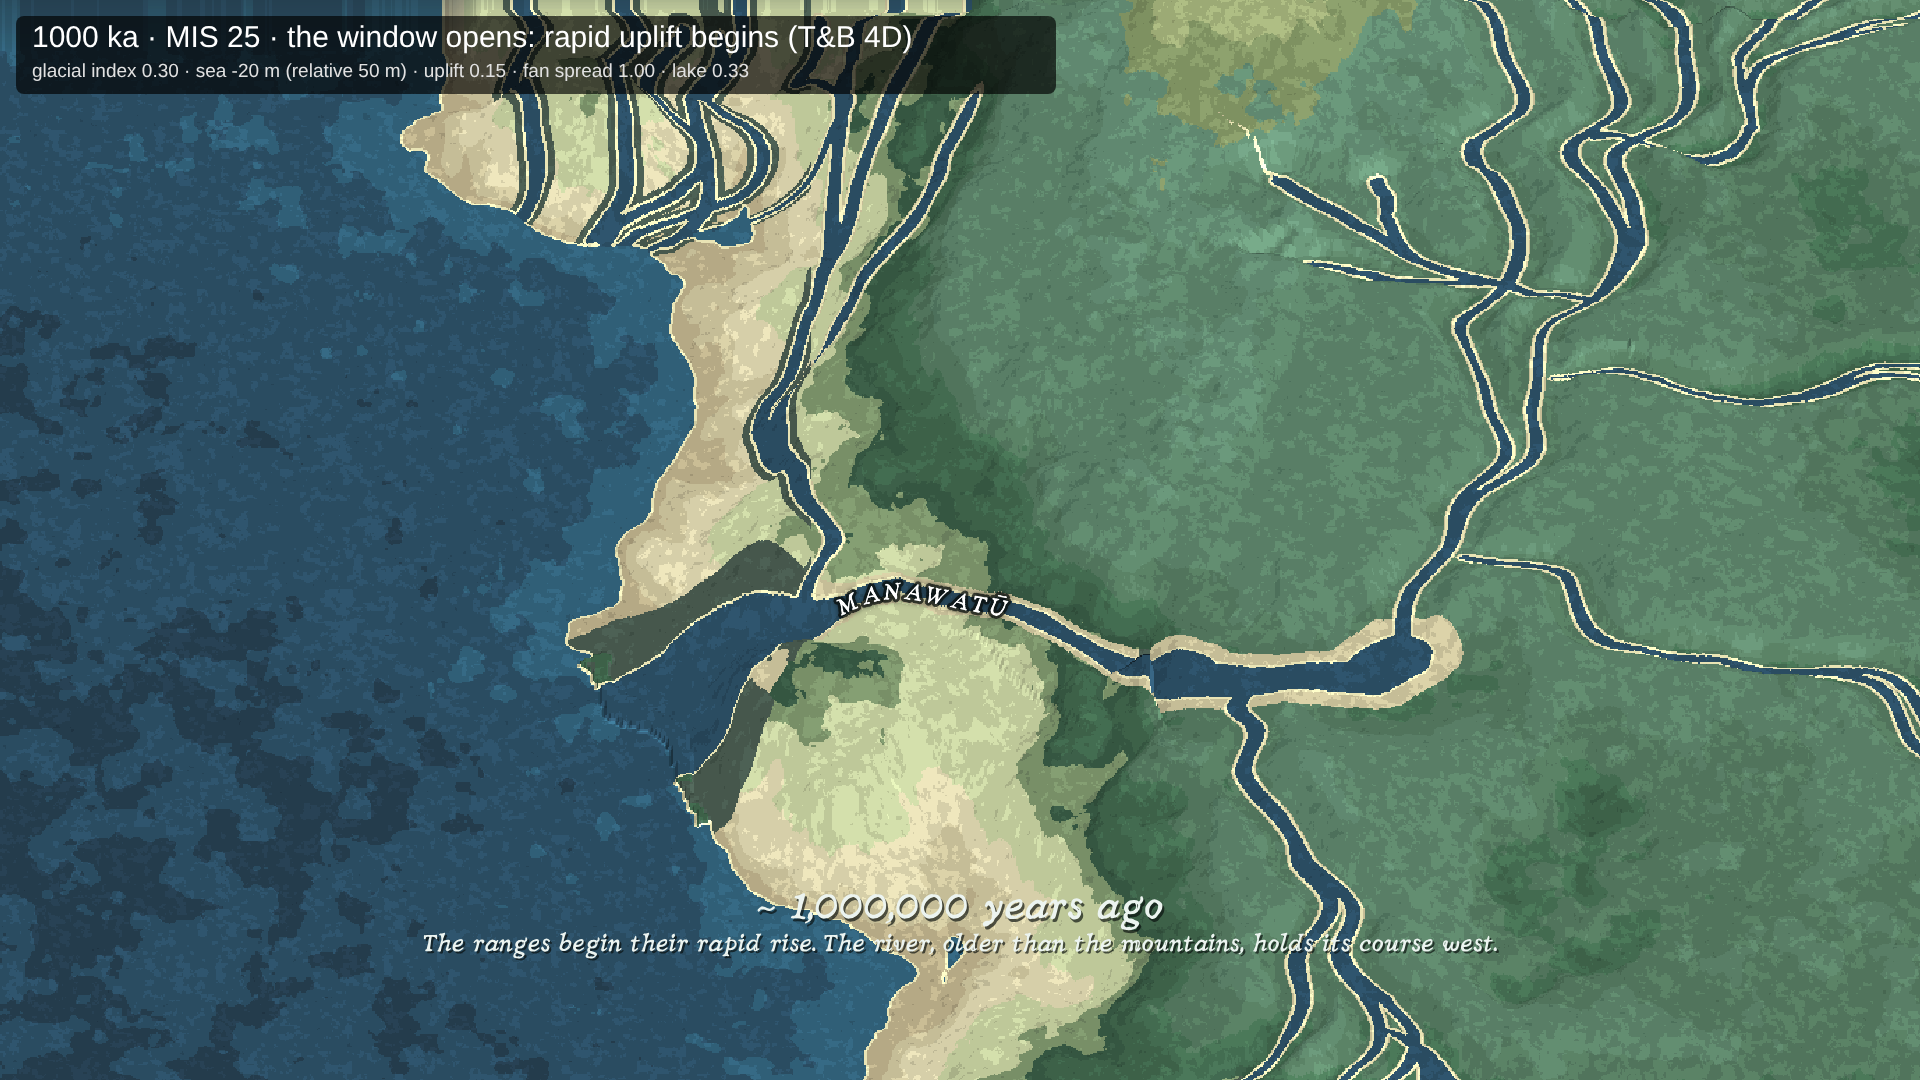
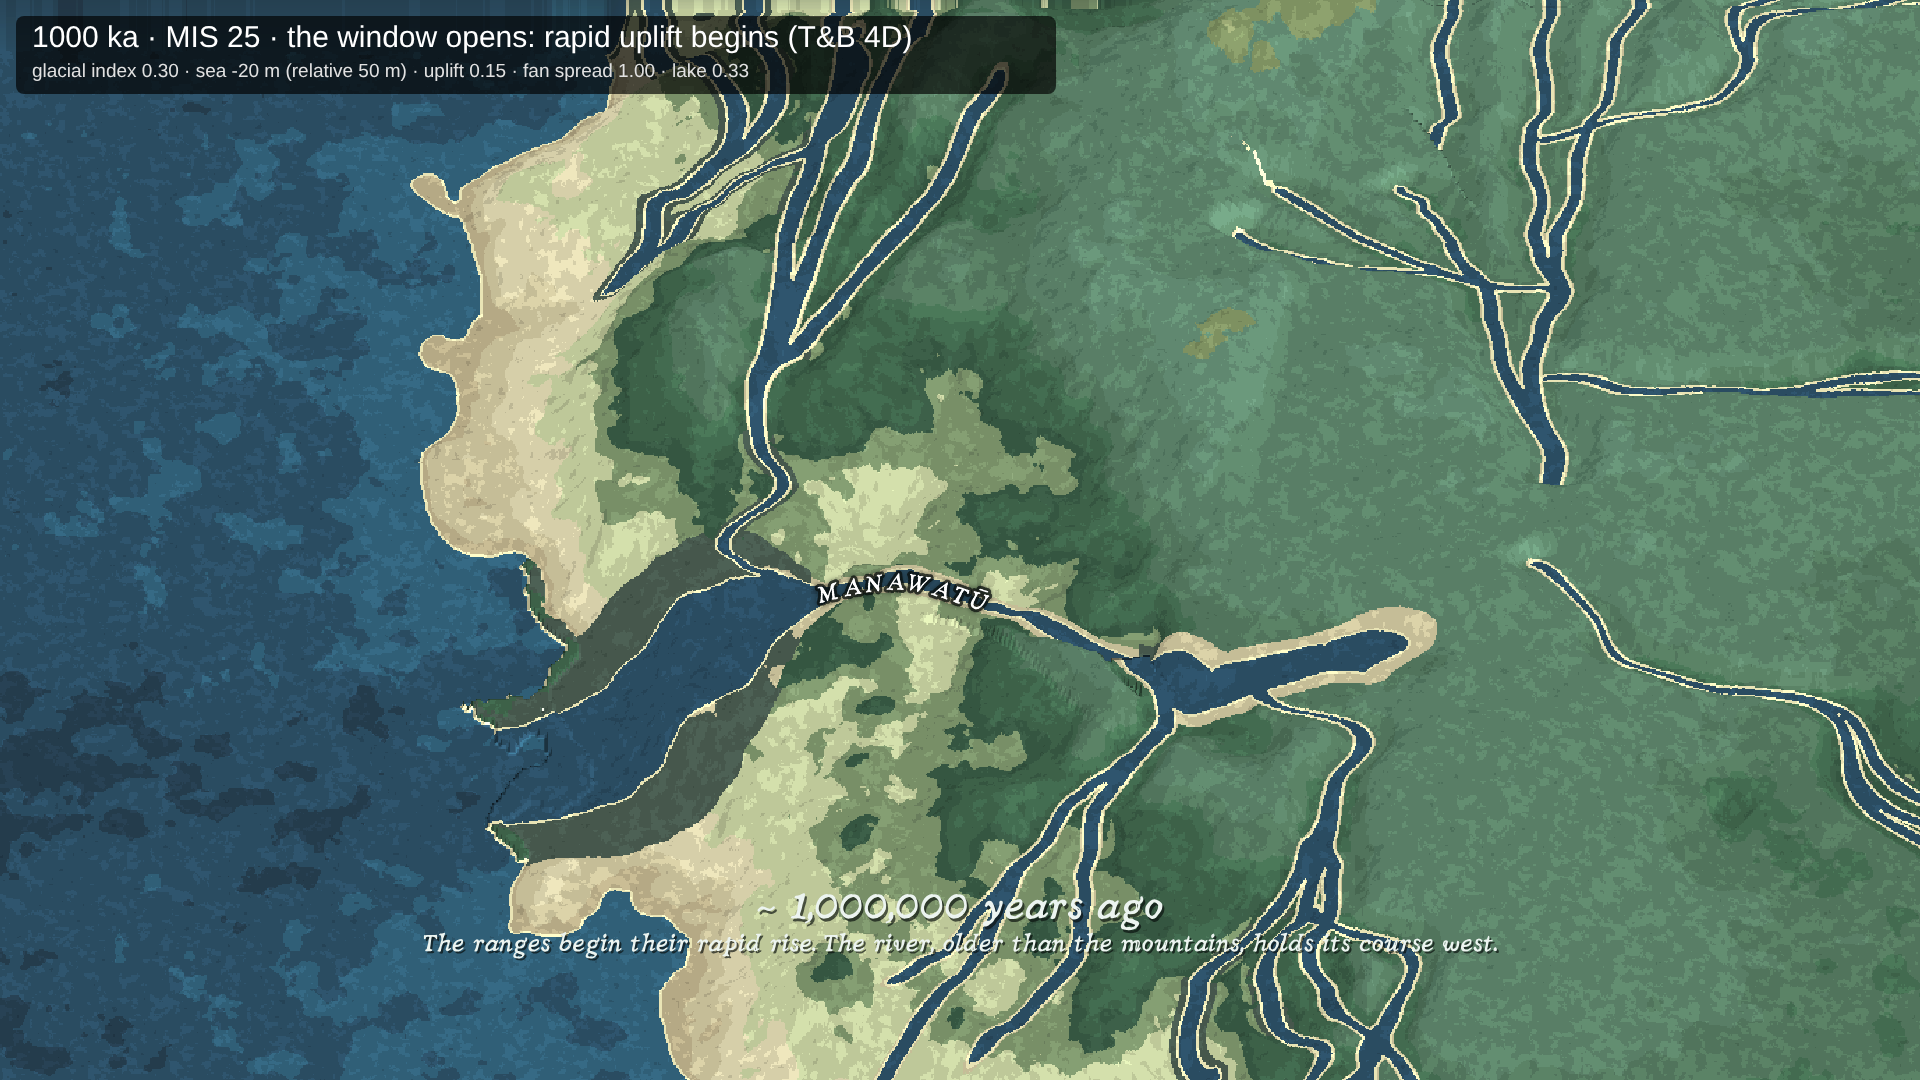
Attract sequence: no river or estuary across the finger before the drainage develops
Before the window, two systems kept riding the authored river line: the
river channel itself (carve, classify, paint) and the drowned-valley estuary
with its infill (the Opiki cycle). The estuary ran at full strength — the
relative sea level holds the opening's +50 m and the clamped climate reads
as a 40-kyr stillstand — so it drowned a wide valley along the main stem
inside the 4 Ma finger and filled it to swamp and swamp-forest: a riverbank
in the seaway between the proto-ranges.

A dated drainage term (GEO_EPOCHS.palaeoRiver, 0 at ≥ 1.6 Ma → 1 at 1.25 Ma;
Trewick & Bland p. 166: the Manawatū system develops north of the Mount Bruce
divide from ~1.5 Ma) now scales the main mask, the tributary masks and the
estuary strength at all three sites (carve, classify, paint), so they cannot
disagree. It is exactly 1 inside the window (PALAEO_NONE.river), so the sim's
land is unchanged. The channel appears as a sandy bed, then a water thread.

Harness: no river px and no filled estuary at 4, 3 and 2.4 Ma; a river at
1.3 Ma; the term is 1 inside the window. Stills re-exported. Plan doc §2, §5.

Claude-Session: https://claude.ai/code/session_01WkpDZJWCGYVheE62ZLNfrb

diff --git a/TeManawa_terrain.js b/TeManawa_terrain.js
@@ -1409,6 +1409,10 @@ class TerrainGenerator {
       //   the axis before the rapid uplift: "an emergent finger of basement rocks, albeit at low
       //   elevation" (4 Ma); "some uplift… initiated by 1.5 Ma"; joins upliftStart at upliftFrom
       palaeoUpliftPre:  [[4000000, 0.03], [1500000, 0.07]],
+      //   the DRAINAGE: the Manawatū river system develops north of the Mount Bruce divide from ~1.5 Ma
+      //   (T&B p. 166). Before that the finger is low basement land with no defined river; the channels
+      //   (main + tributaries) and the drowned-valley estuary that backs up them fade in with this
+      palaeoRiver: [[1600000, 0], [1250000, 1]],
       //   how NARROW the finger is: 1 = a strip along the crest lines (T&B Fig. 4A's thin fingers of
       //   exposed basement), 0 = the whole footprint (the ranges' own shape, as the uplift starts)
       palaeoFingerNarrow: [[4000000, 1], [3000000, 1], [1650000, 0]],
@@ -1457,7 +1461,8 @@ class TerrainGenerator {
       basinW: 1 - TerrainGenerator._anchorCurve([[E.palaeoBasinWFrom, 0], [E.palaeoBasinWTo, 1]], yearsBP),
       basinE: 1 - TerrainGenerator._anchorCurve([[E.palaeoBasinEFrom, 0], [E.palaeoBasinETo, 1]], yearsBP),
       axis:   TerrainGenerator._anchorCurve(E.palaeoAxisStrait, yearsBP),
-      narrow: TerrainGenerator._anchorCurve(E.palaeoFingerNarrow, yearsBP)
+      narrow: TerrainGenerator._anchorCurve(E.palaeoFingerNarrow, yearsBP),
+      river:  TerrainGenerator._anchorCurve(E.palaeoRiver, yearsBP)
     } : TerrainGenerator.PALAEO_NONE;
     // The axis before the rapid uplift: the dated pre-window anchors, joining upliftStart at upliftFrom.
     const upliftPre = preWindow
@@ -1521,7 +1526,7 @@ class TerrainGenerator {
   // The pre-window terms inside the window: one frozen zero object, shared (geoTimeFactors runs per
   // morph; nothing should allocate for a state that never changes).
   static get PALAEO_NONE() {
-    if (!TerrainGenerator._palaeoNone) TerrainGenerator._palaeoNone = Object.freeze({ basinW: 0, basinE: 0, axis: 0, narrow: 0 });
+    if (!TerrainGenerator._palaeoNone) TerrainGenerator._palaeoNone = Object.freeze({ basinW: 0, basinE: 0, axis: 0, narrow: 0, river: 1 });
     return TerrainGenerator._palaeoNone;
   }
 
@@ -3295,6 +3300,9 @@ class TerrainGenerator {
     // is the one marine term that does NOT: Trewick & Bland put the Ruahine "under the ocean" at 2.4 Ma.
     const PL = t.palaeo || TerrainGenerator.PALAEO_NONE, LKp = (typeof LOOK !== 'undefined') ? LOOK : {};
     const palaeoOn = PL.basinW > 0 || PL.basinE > 0 || PL.axis > 0;
+    // THE DRAINAGE before the window (GEO_EPOCHS.palaeoRiver): 0 → no river channels and no estuary
+    // (which backs up the river valley, so cannot exist without one); 1 inside the window.
+    const rivP = (PL.river != null) ? PL.river : 1;
     const pAxisCore = (LKp.palaeoAxisCore != null) ? LKp.palaeoAxisCore : 0.4;
     const pEastU = (LKp.palaeoBasinEastU != null) ? LKp.palaeoBasinEastU : 0.62;
     const pEastF = (LKp.palaeoBasinEastFeather > 0) ? LKp.palaeoBasinEastFeather : 0.12;
@@ -3364,7 +3372,7 @@ class TerrainGenerator {
     const gSeaFullU = (typeof LOOK !== 'undefined' && LOOK.glacialSeaFullU != null) ? LOOK.glacialSeaFullU : 0.36;
     const gSeaOn = glacialSea !== 0 && gSeaEastU > 0;
     // DROWNED-VALLEY ESTUARY (highstand, positional up the main stem). Follows wMDist/wMPos.
-    const highstand = (t.estuary != null) ? t.estuary : 0;
+    const highstand = ((t.estuary != null) ? t.estuary : 0) * rivP;
     const estReach = (typeof LOOK !== 'undefined' && LOOK.estuaryReach != null) ? LOOK.estuaryReach : 0;
     const estWidth = (typeof LOOK !== 'undefined' && LOOK.estuaryWidth != null) ? LOOK.estuaryWidth : 0;
     const estCeil = (typeof LOOK !== 'undefined' && LOOK.estuaryCeil != null) ? LOOK.estuaryCeil : 0.24;
@@ -3378,7 +3386,7 @@ class TerrainGenerator {
     const estTR = (LK.estuaryTribReach > 0) ? LK.estuaryTribReach : 0.45;
     // The fill keeps a MEMORY: its region is the largest estuary of the last estuaryMemoryYears (hsMax), so
     // when the sea falls after the peak the filled plain stays swamp and forest instead of reverting.
-    const hsMax = Math.max(highstand, (t.estMax > 0) ? t.estMax : 0);
+    const hsMax = Math.max(highstand, ((t.estMax > 0) ? t.estMax : 0) * rivP);
     const estAny = hsMax > 0 && estReach > 0 && estWidth > 0 && !!wMDistArr && !!wMPosArr;
     const estGN = this._estGN || (this._estGN = new Float32Array(256)), estGM = this._estGM || (this._estGM = new Float32Array(256));
     let estBranch = false;
@@ -3466,6 +3474,7 @@ class TerrainGenerator {
           const m2 = TerrainGenerator._tribThreads(tS2Arr[i], tP2Arr[i], Tr[tj2].threads, tSpread, tWT[tj2] * valleyWiden, tWB[tj2] * valleyWiden, tE2Arr[i], Tr[tj2].width * valleyWiden, endJ[tj2], minWV);
           if (m2 > wMask) wMask = m2;
         }
+        if (rivP < 1) { wMaskM *= rivP; wMask *= rivP; }   // the drainage fades in before the window
         const wv = seaWob ? seaWob[i] : 0;
         const seaFloor = 0.02 + wv * 0.015;                   // mottled deep floor (~0.005–0.035, all sea)
         const swSub = TerrainGenerator._rangeProtect(TerrainGenerator._swStrength(u, v, sub, swReach, swFeather), rMask[i], seaProtect);   // the axis stays a low emergent finger
@@ -3902,6 +3911,7 @@ class TerrainGenerator {
     const wetElevMax = (typeof LOOK !== 'undefined' && LOOK.riverWetlandElevMax != null) ? LOOK.riverWetlandElevMax : 0.30;
     const _gt = this._geoT || {};
     const riverTeff = riverT + (1 - (_gt.incision != null ? _gt.incision : 1)) * 0.25;
+    const rivP = (_gt.palaeo && _gt.palaeo.river != null) ? _gt.palaeo.river : 1;   // the drainage before the window (matches the carve)
     // Main-stem width: the estuary arm west of the gap, the lake east of it (matches the carve).
     const straitRetreat = _gt.straitRetreat;
     const straitF = (_gt.straitFactor != null) ? _gt.straitFactor : 0;   // temporal thinning
@@ -3939,7 +3949,7 @@ class TerrainGenerator {
             const effWM = wMBaseWArr[idx] * TerrainGenerator._gorgeChannel(u) * TerrainGenerator._mainTaper(wMPosArr[idx]) * TerrainGenerator._mainWidthMult(u, straitF, straitRetreat, srFeather, lake);
             if (dM < effWM) {
               const tt = 1 - dM / effWM;
-              let mM = tt * tt * (3 - 2 * tt);
+              let mM = tt * tt * (3 - 2 * tt) * rivP;
               if (mainArm > 0) mM *= TerrainGenerator._mainArmPresence(wMPosArr[idx], mainArm, mArmKeep, mArmFeather);   // NE arm dries to land
               if (mM >= riverTeff) waterHit = true; else if (mM >= riverBankT) bedHit = true;
               if (wetLow && mM >= wetT) wetHit = true;   // low reaches: swamp margin, wider than the bank
@@ -3951,9 +3961,9 @@ class TerrainGenerator {
           for (let sl = 0; sl < 2 && !waterHit; sl++) {
             const tj = sl === 0 ? tJArr[idx] : (tJ2Arr ? tJ2Arr[idx] : 255);
             if (tj === 255) continue;
-            const mT = sl === 0
+            const mT = rivP * (sl === 0
               ? TerrainGenerator._tribThreads(tSArr[idx], tPArr[idx], Tr[tj].threads, tSpread, tWT[tj], tWB[tj], tEArr[idx], Tr[tj].width, endW ? endW[tj] : null, minW)
-              : TerrainGenerator._tribThreads(tS2Arr[idx], tP2Arr[idx], Tr[tj].threads, tSpread, tWT[tj], tWB[tj], tE2Arr[idx], Tr[tj].width, endW ? endW[tj] : null, minW);
+              : TerrainGenerator._tribThreads(tS2Arr[idx], tP2Arr[idx], Tr[tj].threads, tSpread, tWT[tj], tWB[tj], tE2Arr[idx], Tr[tj].width, endW ? endW[tj] : null, minW));
             if (mT > 0) {
               let wT = riverTeff, bT = riverBankT;
               if (thin > 0 && eClass > tribLo) {
@@ -4379,6 +4389,7 @@ class TerrainGenerator {
       ? this._wetlandBiome.minElevation + (this._wetlandBiome.maxElevation - this._wetlandBiome.minElevation) * 0.5 : 0.22;
     const _gt = this._geoT || {};
     const riverTeff = riverT + (1 - (_gt.incision != null ? _gt.incision : 1)) * 0.25;
+    const rivP = (_gt.palaeo && _gt.palaeo.river != null) ? _gt.palaeo.river : 1;   // the drainage before the window (matches the classify)
     // Main-stem width: the estuary arm west of the gap, the lake east of it (matches the carve/classify).
     const straitRetreat = _gt.straitRetreat;
     const straitF = (_gt.straitFactor != null) ? _gt.straitFactor : 0;
@@ -4438,7 +4449,7 @@ class TerrainGenerator {
             const effWM = C_wMBaseW[ni] * TerrainGenerator._gorgeChannel(wx * invGC) * TerrainGenerator._mainTaper(posM) * TerrainGenerator._mainWidthMult(wx * invGC, straitF, straitRetreat, srFeather, lake);
             if (dM < effWM) {
               const tt = 1 - dM / effWM;
-              let mM = tt * tt * (3 - 2 * tt);
+              let mM = tt * tt * (3 - 2 * tt) * rivP;
               if (mainArm > 0) mM *= TerrainGenerator._mainArmPresence(posM, mainArm, mArmKeep, mArmFeather);   // NE arm dries to land, ending cleanly at the eastern confluence
               if (mM >= riverTeff) wa = 2; else if (mM >= riverBankT) bedHit = true;
               if (wetLow && mM >= wetT) wetHit = true;
@@ -4460,7 +4471,7 @@ class TerrainGenerator {
             }
             const s = tq.s, p = tq.p, en = tq.e;
             {
-              const mT = TerrainGenerator._tribThreads(s, p, Tr[tj].threads, tSpread, tWT[tj], tWB[tj], en, Tr[tj].width, endW ? endW[tj] : null, minW);
+              const mT = rivP * TerrainGenerator._tribThreads(s, p, Tr[tj].threads, tSpread, tWT[tj], tWB[tj], en, Tr[tj].width, endW ? endW[tj] : null, minW);
               if (mT > 0) {
                 // Highland thinning — same rule as _rebuildBiomeMap.
                 let wT = riverTeff, bT = riverBankT;

diff --git a/tools/bootcheck.js b/tools/bootcheck.js
@@ -1483,6 +1483,17 @@ try{
     chk(steep<=4, `no one-cell step > 0.1 inside the finger's core off the strait at 4, 3, 2.4 and 2 Ma (${steep}; a few under the harness's white-noise base — the class-boundary wall was hundreds)`);
     chk(topLand/topN<0.3, `the far edge over the drowned basin stays sea (${pc(topLand/topN)} land in the top 5% of the north-west)`);
   }
+  // the DRAINAGE develops with the land (GEO_EPOCHS.palaeoRiver; T&B p. 166: the Manawatū system grows
+  // north of the Mount Bruce divide from ~1.5 Ma): before it, no river channel and no drowned-valley
+  // estuary or its infill ride the authored river line across the finger; after it, both are there;
+  // inside the window the term is exactly 1
+  {
+    const drain=(y)=>{ T.morphTo(y,1); const W=T._paintWater, E=T._estState; let r=0, e=0;
+      for (let i=0;i<W.length;i++) if (W[i]===2) r++; for (let i=0;i<E.length;i++) if (E[i]) e++; return [r,e]; };
+    for (const y of [4000000, 3000000, 2400000]) { const [r,e]=drain(y); chk(r===0 && e===0, `${y/1e6} Ma: no river channel or estuary infill before the drainage develops (${r} river px, ${e} filled cells)`); }
+    const [r13]=drain(1300000); chk(r13>0, `1.3 Ma: the river system has developed (${r13} river px)`);
+    chk(TG.geoTimeFactors(1000000).palaeo.river===1 && TG.geoTimeFactors(25500).palaeo.river===1, 'the drainage term is 1 inside the window');
+  }
   // the finger is THINNER early (a strip along the crest lines) than when the uplift starts
   const ruaFlank=(y)=>{ T.morphTo(y,1); return frac(0.66,0.72,0.10,0.30,false); };   // the Ruahine footprint's eastern flank
   { const a=ruaFlank(4000000), b=ruaFlank(1600000); chk(a<=b, `the finger broadens from 4 Ma to 1.6 Ma (flank land ${pc(a)} → ${pc(b)})`); }

diff --git a/md/TEMANAWA_PALAEO_ATTRACT.md b/md/TEMANAWA_PALAEO_ATTRACT.md
@@ -77,6 +77,7 @@ pre-window basin).
 | Term | What it does in the frame | Dated anchors | Window value (≤ 1 Ma) |
 |---|---|---|---|
 | **basin, west** `basinW` | drowns the plain to the mottled sea floor everywhere outside the axis core — the range footprints and the gorge saddle between them (mass ≥ `LOOK.palaeoAxisCore`), their spread margin shelving under — the Wanganui Basin's shelf; smoothstep off | 1 at ≥ 1.65 Ma → 0 at 1.0 Ma | 0 |
+| **the drainage** `river` | the main stem, the tributary fans **and the drowned-valley estuary with its infill** (which back up the river valley) all scale by this: before it there is no defined river on the low finger; the channel appears as a sandy bed, then a water thread, as the land emerges. T&B p. 166: the Mount Bruce uplift (~1.5 Ma) "initiated a drainage divide… that resulted in the Manawatu River system developing to the north of the divide" | 0 at ≥ 1.6 Ma → 1 at 1.25 Ma | 1 |
 | **the finger's width** `narrow` | early (≥ 3 Ma) the finger is a strip along each range's crest line and the river bridge across the saddle — T&B Fig. 4A's thin fingers of exposed basement (`LOOK.palaeoFingerNarrow` scales the mass by spine closeness); it broadens to the whole footprint by 1.65 Ma as the uplift starts | 1 at ≥ 3.0 Ma → 0 at 1.65 Ma | 0 |
 | **the finger** `basinW`/`basinE` × core | inside the core the land is cut toward lowland (`LOOK.palaeoAxisLow`/`LowE`, by how far the pre-window uplift still has to go — "albeit at low elevation") and stands at least `LOOK.palaeoAxisFloorE` (the one pre-window term that raises: the southern Tararua's footprint lies on today's shelf and was land then). Both fade to 0 at the opening | with the basin | 0 |
 | **basin, east** `basinE` | the same drowning east of `LOOK.palaeoBasinEastU` (the Ruataniwha Strait's SW end), blended across a feather; closes with Mount Bruce | 1 at ≥ 1.65 Ma → 0 at 1.3 Ma | 0 |
@@ -187,6 +188,7 @@ exist in the model before 1 Ma (as the spread fans), but no source names them fo
 | 21 | The hold timer | A hold counted from the clock's *arrival* at a keyframe; on a slow bake (the harness, a cold kiosk) it was spent still morphing and the dated map was never on screen for its hold | A hold is *pending* until the keyframe's own re-bake lands (`_holdPending` → `_armHold` from `_onBaked`); a skip waits for nothing |
 | 23 | `_nsEdgeFalloff` (the far-edge ease) | It eased the top rows *two-way* toward plains, raising a low far row to meet the relief crop — right on the window's land, but in the sequence it lifted the drowned basin into a strip of false land with a ruler-straight coast along the top | Raises **land** only (fading in over the first 0.05 above the waterline); sea stays sea. The down-easing of truncated ranges, which is what stops the vertical smear, is untouched |
 | 24 | Class boundaries in the thin finger | Each branch on which range or saddle "owns" a cell (`rSad`) left a one-cell step at the polygon edge (the Ruahine's southern tip near the gorge, 2.4–2.0 Ma) — the de-cliff pass caps it at 0.12/cell, and the relief bake paints that as a striped tower | The finger is built from continuous fields only: the range-only mass thinned to its crest lines, the river bridge inside the gorge window, the full footprint fading in as it broadens; the max of the three. Harness: no one-cell step > 0.1 inside the core off the strait at any pre-window date |
+| 25 | The river and the estuary/infill (the "Opiki cycle") | Both ride the authored river line and ran at every pre-window date: a thin channel across the 4 Ma finger and, worse, the estuary at *full* strength — the relative sea level holds the opening's +50 m and the clamped climate reads as a 40-kyr stillstand, so it drowned a wide valley along the main stem and filled it to swamp and swamp-forest: a "riverbank" in the seaway between the proto-ranges | The dated drainage term (`GEO_EPOCHS.palaeoRiver`, §2) scales the main mask, the tributary masks and the estuary strength at the carve, the classify and the paint (one factor at all three, so they cannot disagree). Harness: no river px and no filled estuary at 4, 3, 2.4 Ma; a river at 1.3 Ma; the term is 1 inside the window |
 | 22 | The gorge saddle (`LOOK.gorgeSaddle`) | A crest-weighted "finger" (range mass × spine closeness) drowned the saddle between the two ranges at every pre-window date, cutting the finger where Trewick & Bland say there was no seaway at 4 Ma | The finger is the range *footprints* (mass ≥ `LOOK.palaeoAxisCore`, a wide shelving band — the polygons and the saddle), with the spread margin shelving under; the harness asserts the gap is land at 4, 2.75 and 1.6 Ma |
 
 ---
